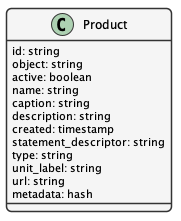
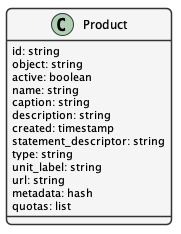
Add the Quota diagram, and update the Product diagram with a list of Quotas.

Changed region(s): [[0.0276, 0.0271, 0.9669, 0.9774], [0.4696, 0.0814, 0.7182, 0.1357]]

diff --git a/membership-plan-management.rst b/membership-plan-management.rst
@@ -164,6 +164,7 @@ Products define the exact DataONE service offered, and describe the features of 
         unit_label: string
         url: string
         metadata: hash
+        quotas: list
     }
     @enduml
 
@@ -257,7 +258,23 @@ Customers are associated with a DataONE account (by ORCID), and are associated w
 Quotas
 ------
 
-Quotas are limits set for a particular product, such as the number of portals allowed, disk space allowed, etc. and track the total usage in each category for each Customer.
+Quotas are limits set for a particular product, such as the number of portals allowed, disk space allowed, etc. Quotas have a soft and hard limit per unit to help with communicating limit warnings.
+
+..
+    @startuml images/quota.png
+    !include ./plantuml-styles.txt
+
+    class Quota {
+        id: string
+        object: string
+        name: string
+        soft_limit: integer
+        hard_limit: integer
+        unit: string
+    }
+    @enduml
+
+.. image:: images/quota.png
 
 Orders
 ------
